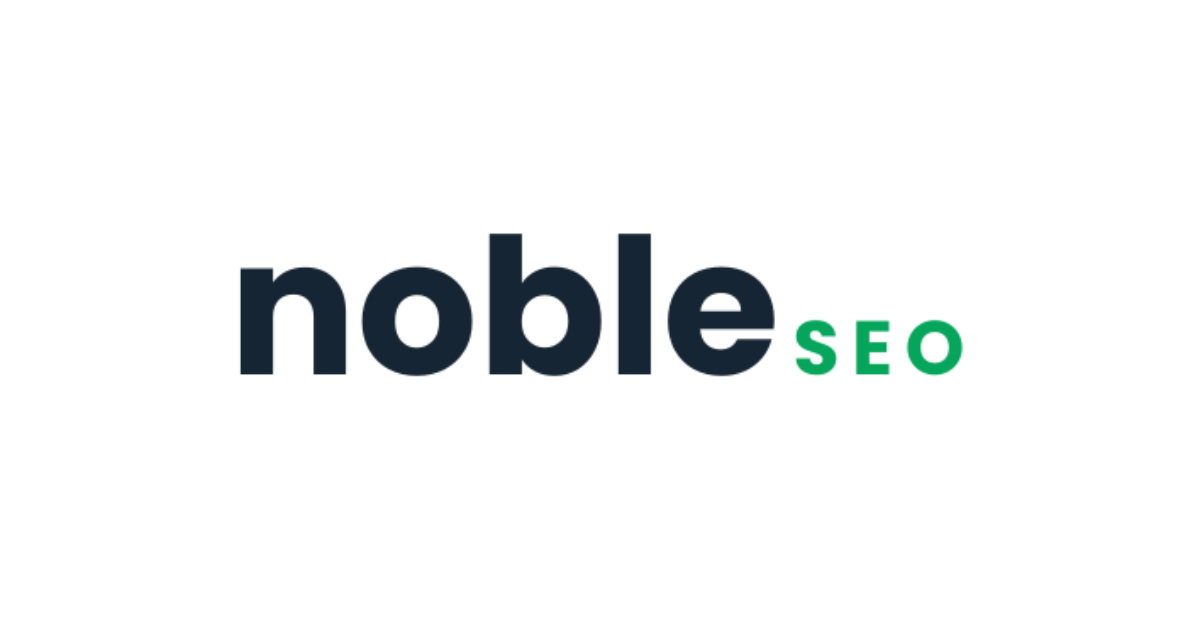
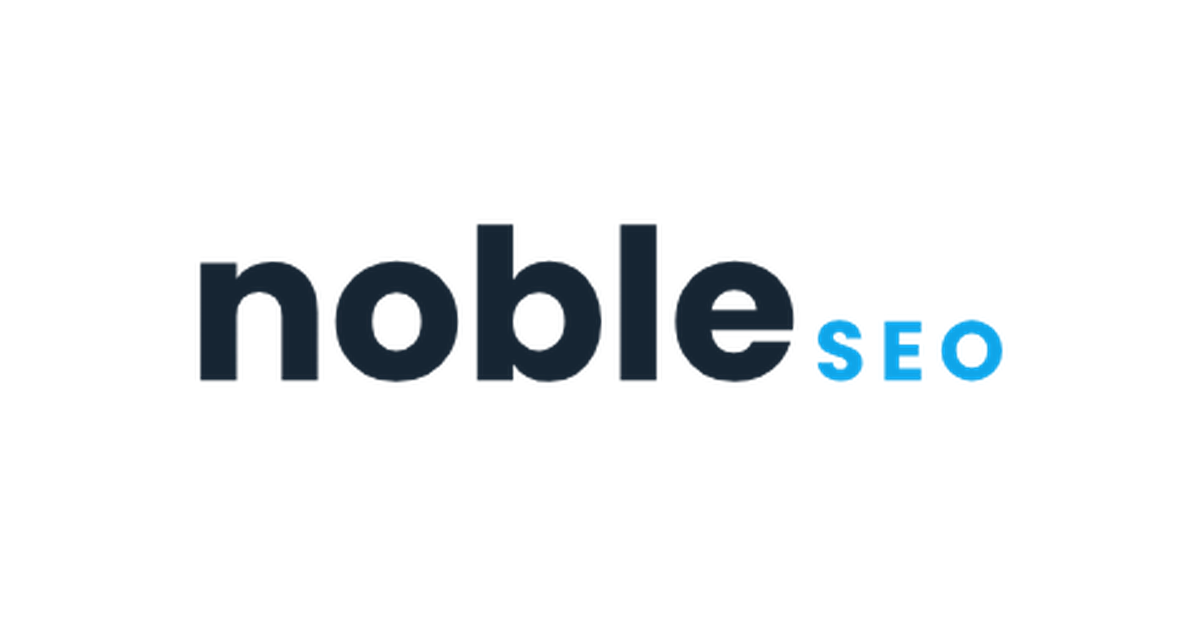
Switch the brand accent from green to Noble Sky so the site matches the lockup and kit.

Changed region(s): [[0.1542, 0.3317, 0.8633, 0.6333]]

diff --git a/noble-web/app/areas/fort-worth-seo/page.tsx b/noble-web/app/areas/fort-worth-seo/page.tsx
@@ -209,22 +209,22 @@ export default function FortWorthSeoPage() {
               </p>
               <ul className="mt-4 grid gap-2 text-sm text-stone">
                 <li>
-                  <Link href={industryCityPath("hvac-seo", "fort-worth")} className="text-forest hover:text-forest-deep">
+                  <Link href={industryCityPath("hvac-seo", "fort-worth")} className="text-forest-deep hover:text-forest">
                     HVAC
                   </Link>
                 </li>
                 <li>
-                  <Link href={industryPath("plumbing-seo")} className="text-forest hover:text-forest-deep">
+                  <Link href={industryPath("plumbing-seo")} className="text-forest-deep hover:text-forest">
                     Plumbing
                   </Link>
                 </li>
                 <li>
-                  <Link href={industryPath("roofing-seo")} className="text-forest hover:text-forest-deep">
+                  <Link href={industryPath("roofing-seo")} className="text-forest-deep hover:text-forest">
                     Roofing
                   </Link>
                 </li>
                 <li>
-                  <Link href={industryPath("electrical-seo")} className="text-forest hover:text-forest-deep">
+                  <Link href={industryPath("electrical-seo")} className="text-forest-deep hover:text-forest">
                     Electrical
                   </Link>
                 </li>
@@ -242,22 +242,22 @@ export default function FortWorthSeoPage() {
               </p>
               <ul className="mt-4 grid gap-2 text-sm text-stone">
                 <li>
-                  <Link href={industryCityPath("dental-seo", "fort-worth")} className="text-forest hover:text-forest-deep">
+                  <Link href={industryCityPath("dental-seo", "fort-worth")} className="text-forest-deep hover:text-forest">
                     Dental
                   </Link>
                 </li>
                 <li>
-                  <Link href={industryPath("orthodontic-seo")} className="text-forest hover:text-forest-deep">
+                  <Link href={industryPath("orthodontic-seo")} className="text-forest-deep hover:text-forest">
                     Orthodontics
                   </Link>
                 </li>
                 <li>
-                  <Link href={industryCityPath("optometry-seo", "fort-worth")} className="text-forest hover:text-forest-deep">
+                  <Link href={industryCityPath("optometry-seo", "fort-worth")} className="text-forest-deep hover:text-forest">
                     Optometry
                   </Link>
                 </li>
                 <li>
-                  <Link href={industryPath("med-spa-seo")} className="text-forest hover:text-forest-deep">
+                  <Link href={industryPath("med-spa-seo")} className="text-forest-deep hover:text-forest">
                     Med spas
                   </Link>
                 </li>
@@ -273,7 +273,7 @@ export default function FortWorthSeoPage() {
                 <li>Auto repair</li>
                 <li>Specialty contractors</li>
                 <li>
-                  <Link href={industryPath("professional-services")} className="text-forest hover:text-forest-deep">
+                  <Link href={industryPath("professional-services")} className="text-forest-deep hover:text-forest">
                     Professional services
                   </Link>
                 </li>
@@ -301,7 +301,7 @@ export default function FortWorthSeoPage() {
             <p className="mt-6 text-sm">
               <Link
                 href={industryCityPath("hvac-seo", "fort-worth")}
-                className="text-forest hover:text-forest-deep"
+                className="text-forest-deep hover:text-forest"
               >
                 HVAC SEO in Fort Worth
               </Link>

diff --git a/noble-web/app/page.tsx b/noble-web/app/page.tsx
@@ -36,7 +36,7 @@ export default function HomePage() {
   return (
     <>
       <JsonLd data={faqSchema(homeFaqs)} />
-      <section className="relative overflow-hidden bg-cream md:bg-[radial-gradient(circle_at_88%_0%,rgba(5,166,91,0.16),transparent_40%),radial-gradient(circle_at_12%_100%,rgba(22,37,51,0.08),transparent_42%),linear-gradient(180deg,#f7f8f8_0%,#ffffff_72%)]">
+      <section className="relative overflow-hidden bg-cream md:bg-[radial-gradient(circle_at_88%_0%,rgba(14,165,233,0.16),transparent_40%),radial-gradient(circle_at_12%_100%,rgba(22,37,51,0.08),transparent_42%),linear-gradient(180deg,#f7f8f8_0%,#ffffff_72%)]">
         <div className="mx-auto grid max-w-site items-start gap-12 px-6 py-12 md:py-16 lg:grid-cols-[1.05fr_0.95fr]">
           <div>
             <p className="text-[0.72rem] font-medium tracking-[0.22em] text-forest uppercase">
@@ -188,7 +188,7 @@ export default function HomePage() {
           </div>
           <p className="mt-6 text-center text-sm text-stone">
             From the{" "}
-            <Link href={paths.budgetocity} className="text-forest hover:text-forest-deep">
+            <Link href={paths.budgetocity} className="text-forest-deep hover:text-forest">
               Budgetocity on-page and content case study
             </Link>
             .
@@ -263,7 +263,7 @@ export default function HomePage() {
           <div className="mt-6">
             <Link
               href={paths.industries}
-              className="text-sm font-medium text-forest hover:text-forest-deep"
+              className="text-sm font-medium text-forest-deep hover:text-forest"
             >
               More industries
             </Link>
@@ -274,7 +274,7 @@ export default function HomePage() {
             </p>
             <p className="mt-2 text-sm leading-relaxed text-stone">
               We work with other local businesses too.{" "}
-              <Link href={paths.contact} className="text-forest hover:text-forest-deep">
+              <Link href={paths.contact} className="text-forest-deep hover:text-forest">
                 Request a free game plan
               </Link>{" "}
               and we&apos;ll tell you whether NOBLE is a fit.

diff --git a/noble-web/components/IndustryPage.tsx b/noble-web/components/IndustryPage.tsx
@@ -92,7 +92,7 @@ export function IndustryPage({ industry }: { industry: Industry }) {
               {industry.approach.map((item) => (
                 <li key={item.title} className="rounded-xl border border-mist px-5 py-4">
                   {item.href ? (
-                    <Link href={item.href} className="font-medium text-forest hover:text-forest-deep">
+                    <Link href={item.href} className="font-medium text-forest-deep hover:text-forest">
                       {item.title}
                     </Link>
                   ) : (
@@ -134,7 +134,7 @@ export function IndustryPage({ industry }: { industry: Industry }) {
             <h2 className="font-serif mt-16 text-3xl tracking-tight">Proof</h2>
             <p className="mt-4 text-stone">{industry.proof}</p>
             <p className="mt-4 text-sm text-stone">
-              <Link href={paths.caseStudies} className="text-forest hover:text-forest-deep">
+              <Link href={paths.caseStudies} className="text-forest-deep hover:text-forest">
                 See published case studies
               </Link>
               — including what they are and what they are not.

diff --git a/noble-web/components/CaseStudyCard.tsx b/noble-web/components/CaseStudyCard.tsx
@@ -40,7 +40,7 @@ export function CaseStudyCard({ study }: { study: CaseStudy }) {
         <p className="mt-3 font-medium text-ink">{study.metric}</p>
         <p className="mt-3 text-sm leading-relaxed text-stone">{study.summary}</p>
         <div className="mt-5 flex flex-wrap gap-x-6 gap-y-2 text-sm font-medium">
-          <Link href={href} className="text-forest hover:text-forest-deep">
+          <Link href={href} className="text-forest-deep hover:text-forest">
             Read the case study
           </Link>
           {study.url ? (
@@ -48,7 +48,7 @@ export function CaseStudyCard({ study }: { study: CaseStudy }) {
               href={study.url}
               target="_blank"
               rel="noopener noreferrer"
-              className="text-forest hover:text-forest-deep"
+              className="text-forest-deep hover:text-forest"
             >
               Visit {study.client}
             </a>

diff --git a/noble-web/components/LegalPage.tsx b/noble-web/components/LegalPage.tsx
@@ -27,7 +27,7 @@ export function LegalPage({
         </div>
       </section>
       <section className="py-16">
-        <article className="mx-auto grid max-w-3xl gap-8 px-6 text-stone [&_a]:text-forest [&_a]:hover:text-forest-deep [&_h2]:font-serif [&_h2]:text-2xl [&_h2]:tracking-tight [&_h2]:text-ink [&_li]:leading-relaxed [&_p]:leading-relaxed [&_ul]:grid [&_ul]:list-disc [&_ul]:gap-2 [&_ul]:pl-5">
+        <article className="mx-auto grid max-w-3xl gap-8 px-6 text-stone [&_a]:text-forest-deep [&_a]:hover:text-forest [&_h2]:font-serif [&_h2]:text-2xl [&_h2]:tracking-tight [&_h2]:text-ink [&_li]:leading-relaxed [&_p]:leading-relaxed [&_ul]:grid [&_ul]:list-disc [&_ul]:gap-2 [&_ul]:pl-5">
           {children}
         </article>
       </section>

diff --git a/noble-web/components/AuditForm.tsx b/noble-web/components/AuditForm.tsx
@@ -311,7 +311,7 @@ export function AuditForm({ compact = false, variant }: Props) {
       <button
         type="submit"
         disabled={status === "submitting"}
-        className="inline-flex min-h-12 items-center justify-center rounded-full bg-forest px-6 py-3 text-sm font-semibold text-white transition-colors hover:bg-forest-deep disabled:opacity-70"
+        className="inline-flex min-h-12 items-center justify-center rounded-full bg-forest px-6 py-3 text-sm font-semibold text-ink transition-colors hover:bg-forest-deep hover:text-white disabled:opacity-70"
       >
         {status === "submitting" ? "Sending…" : `${cta.form} →`}
       </button>

diff --git a/noble-web/app/industries/page.tsx b/noble-web/app/industries/page.tsx
@@ -88,7 +88,7 @@ export default function IndustriesPage() {
             </h2>
             <p className="mt-3 max-w-2xl text-sm leading-relaxed text-stone">
               We work with other local businesses too.{" "}
-              <Link href={paths.contact} className="text-forest hover:text-forest-deep">
+              <Link href={paths.contact} className="text-forest-deep hover:text-forest">
                 Request a free game plan
               </Link>{" "}
               and we&apos;ll tell you whether NOBLE is a fit. We will not

diff --git a/noble-web/app/resources/topic/[category]/page.tsx b/noble-web/app/resources/topic/[category]/page.tsx
@@ -69,7 +69,7 @@ export default async function ResourceTopicPage({ params }: Props) {
           {list.length === 0 ? (
             <p className="max-w-2xl text-stone">
               Nothing published in this category yet. Other resources are on the{" "}
-              <Link href={paths.resources} className="text-forest hover:text-forest-deep">
+              <Link href={paths.resources} className="text-forest-deep hover:text-forest">
                 resources hub
               </Link>
               .

diff --git a/noble-web/app/globals.css b/noble-web/app/globals.css
@@ -10,9 +10,9 @@
 @theme inline {
   --color-background: var(--background);
   --color-foreground: var(--foreground);
-  --color-forest: #05a65b;
-  --color-forest-deep: #048a4c;
-  --color-forest-mist: #e8f7ef;
+  --color-forest: #0ea5e9;
+  --color-forest-deep: #0369a1;
+  --color-forest-mist: #e0f2fe;
   --color-ink: #162533;
   --color-cream: #f7f8f8;
   --color-paper: #ffffff;
@@ -33,7 +33,7 @@ body {
 }
 
 ::selection {
-  background: #05a65b;
+  background: #0ea5e9;
   color: #ffffff;
 }
 

diff --git a/noble-web/app/areas/page.tsx b/noble-web/app/areas/page.tsx
@@ -56,7 +56,7 @@ export default function AreasPage() {
             is different enough to deserve a URL — HVAC, dental, and optometry
             in Fort Worth, plus Dallas counterparts where the copy is locally
             true.{" "}
-            <Link href={paths.industries} className="text-forest hover:text-forest-deep">
+            <Link href={paths.industries} className="text-forest-deep hover:text-forest">
               See industries
             </Link>
             .

diff --git a/noble-web/components/BrandMark.tsx b/noble-web/components/BrandMark.tsx
@@ -7,10 +7,10 @@ export function BrandMark({ inverted = false }: { inverted?: boolean }) {
       <Image
         src="/noble-seo-header-logo.png"
         alt="NOBLE SEO"
-        width={446}
-        height={118}
+        width={333}
+        height={88}
         priority
-        className={`h-[30px] w-auto lg:h-10 ${inverted ? "brightness-0 invert" : ""}`}
+        className={`h-[30px] w-auto lg:h-11 ${inverted ? "brightness-0 invert" : ""}`}
       />
     </Link>
   );

diff --git a/noble-web/app/contact/thanks/page.tsx b/noble-web/app/contact/thanks/page.tsx
@@ -23,7 +23,7 @@ export default function ThanksPage() {
       </p>
       <p className="mt-4 max-w-xl text-stone">
         If you do not see a reply, check spam or email{" "}
-        <a className="text-forest hover:text-forest-deep" href="mailto:hello@nobleseo.co">
+        <a className="text-forest-deep hover:text-forest" href="mailto:hello@nobleseo.co">
           hello@nobleseo.co
         </a>
         .
